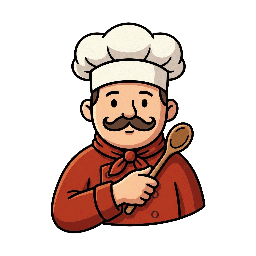
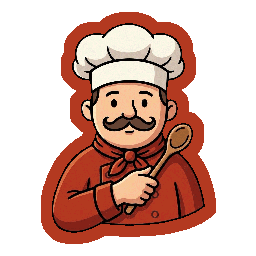
Portrait-only suspects w/ outlined art + rebuilt state cues; menu/centering/mobile-reorder/folder-slide fixes
Suspect markers now render as portrait art ONLY — Trevor re-drew each portrait
with a baked-in coloured outline, so the disc fill, per-case ring, and circular
clip are gone for a cleaner, more readable board. The interactive cues the ring
used to carry are rebuilt without a ring:

- Selection: cell amber border (kept) + the marker scales up / brightens.
- Suspect-focus lens "lit": soft amber cell halo + breathing pulse + brighter,
  larger portrait; the rest of the grid still dims (strong lit-vs-dim contrast).
- Conflict: red outline + red glow on the marker.
- Given/locked: lock badge (kept) + a faint "fixed" portrait mute.
- Tray selected / armed: lift + amber glow (name/count amber kept).
All motion-gated (Motion off -> static, in place); POI dots still track s.color
(incl. the Inspector-sepia / Actress-crimson disambiguation).

Also in this batch:
- Menu: fixed the ☰ dropdown opening off-screen on narrow/phone widths (clamped
  fully into the viewport; preserves the wide-desktop position).
- Desktop: top bar now centred over the board (aligns with the toolbar) at >=1240px.
- Mobile: moved the Objective, the "Graves' Deduction Grid" caption, and the
  Suspects label BELOW the controls toolbar (phone only; CSS order, no DOM move).
- New-case folder now visibly slides DOWN into place (introSlide fades in early
  so the downward drop is seen; can no longer fall back to the upward jModalIn pop).
[…]

Changed region(s): [[0.1562, 0.0312, 0.8438, 0.9688]]

diff --git a/index.html b/index.html
@@ -74,6 +74,14 @@
     :root{--cell:calc((100vw - 40px) / var(--ncols));}
   }
 
+  /* Desktop ≥1240: the Case File occupies a fixed 410px RIGHT grid column, so the board lives in the LEFT column.
+     Reserve that column's width (410px + 24px gap) as header right-padding so the centered top bar sits OVER THE
+     BOARD — lining up with the board and the (already board-centered) toolbar. (Trevor's "over the board" choice.)
+     padding (not transform) on purpose: a transformed ancestor would re-anchor the position:fixed menu popover. */
+  @media (min-width:1240px){
+    body:not(.appfit):not(.phone) header.app{ width:100%; box-sizing:border-box; padding-right:434px; }
+  }
+
   .board-wrap{display:flex;flex-direction:column;align-items:center;gap:14px;}
   /* the board is Inspector Graves' abstract deduction grid, not a crime-scene map */
   .board-title{font-family:Georgia,serif;font-size:13px;letter-spacing:1.5px;color:var(--ink-dim);
@@ -167,48 +175,40 @@
     box-shadow:0 1px 2px rgba(0,0,0,.5),inset 0 0 0 1px rgba(231,185,77,.4);}
   /* scene weapon: clean transparent cutout (drop-shadow only) — no dark backing box, even when covered */
   .cell-weapon.chip{background:none;}
-  /* ---- suspect token: colored disc + per-case ring + portrait/letter ---- */
-  .token{position:relative;width:82%;height:82%;border-radius:50%;z-index:2;  /* above the room object (z1), below scene weapon/victim */
+  /* ---- suspect token: PORTRAIT ART ONLY — each portrait carries its own baked-in coloured outline, so
+     there is NO disc fill, NO ring, and NO circular clip. Interactive state (selection / lens / conflict /
+     given) is conveyed by cell glow + scale/brightness, not a ring (see the state rules below). ---- */
+  .token{position:relative;width:82%;height:82%;z-index:2;  /* above the room object (z1), below scene weapon/victim */
     display:flex;align-items:center;justify-content:center;
-    background:var(--disc, #888);                 /* fallback: suspect-color disc (set inline) */
-    /* rings are DIM by default (muted toward the dark panel); they light up on selection (.match / .susp.sel) */
-    box-shadow:0 0 0 var(--ring-w) color-mix(in srgb, var(--ring,#888) var(--ring-rest,54%), #1b1f29), 0 2px 4px rgba(0,0,0,.55);
-    transition:box-shadow .12s;}
-  .token .tletter{font-weight:700;color:#fff;text-shadow:0 1px 2px rgba(0,0,0,.75);
-    font-size:inherit;line-height:1;}
-  .token .tportrait{position:absolute;inset:0;border-radius:50%;
-    background:var(--disc-cream);                 /* cream so transparent cutouts pop */
-    background-size:cover;background-position:center;display:none;}
-  .token.has-img{background:var(--disc-cream);}
+    transition:transform .12s ease, filter .12s ease;}
+  .token .tletter{font-weight:700;color:var(--ink);text-shadow:0 0 3px var(--panel),0 1px 2px rgba(0,0,0,.6);
+    font-size:inherit;line-height:1;}   /* lettered fallback (rare — portraits normally load): dark ink so it reads with no disc behind it */
+  .token .tportrait{position:absolute;inset:0;
+    background-size:contain;background-repeat:no-repeat;background-position:center;display:none;}   /* contain so the baked outline is never cropped, whatever shape the art is */
   .token.has-img .tportrait{display:block;}
   .token.has-img .tletter{display:none;}
-  /* given/locked suspects: darker disc behind the portrait + subtle lock badge */
-  .cell.given .token{background:var(--disc-given);}
-  .cell.given .token.has-img{background:var(--disc-given);}
-  .cell.given .tportrait{background-color:var(--disc-given);box-shadow:inset 0 0 0 1.5px rgba(0,0,0,.5);}   /* P6: engraved rim so "given/locked" still reads when the portrait covers the dark disc */
+  /* given/locked suspects: portrait stays; a lock badge + a faint "fixed" mute mark them as pre-filled (no disc) */
+  .cell.given .tportrait{filter:saturate(.9) brightness(.95);}
   .cell.given .token::after{content:"";position:absolute;right:-1px;bottom:-1px;
     width:42%;height:42%;max-width:15px;max-height:15px;border-radius:50%;
     background:#1a1a22 center/64% no-repeat url("assets/ui/icon-lock.png");
     box-shadow:0 0 0 1px rgba(0,0,0,.55);opacity:1;pointer-events:none;}
-  .token.big{width:84px;height:84px;font-size:40px;box-shadow:0 0 0 3.5px var(--ring,#fff),0 8px 20px rgba(0,0,0,.6);}
+  .token.big{width:84px;height:84px;font-size:40px;}
   .token.tray{width:100%;height:100%;font-size:22px;}
-  /* selected cell's token: thicker glowing ring */
-  .cell.sel .token{box-shadow:0 0 0 calc(var(--ring-w) + 1px) var(--ring,#fff),
-    0 0 0 calc(var(--ring-w) + 4px) rgba(231,185,77,.6), 0 2px 6px rgba(0,0,0,.6);}
-  /* selected suspect lights up: every matching token gets a bright full-colour ring + glow,
-     a strong jump from the dim default so it's obvious even at mobile token size */
-  .cell.match{z-index:3;}
-  /* matching placed suspects: a GENTLE breathing pulse of the lit ring/glow while selected.
-     The declared box-shadow below is the resting/static lit ring — shown as-is when Motion is off
-     (body.no-motion / reduced-motion disable the animation), so it degrades to a solid lit ring. */
-  .cell.match .token{box-shadow:0 0 0 calc(var(--ring-w) + 2px) var(--ring,#fff),
-    0 0 18px 5px var(--ring,#fff), 0 0 0 6px color-mix(in srgb, var(--ring,#fff) 48%, transparent), 0 2px 4px rgba(0,0,0,.55);
-    filter:brightness(1.06);animation:matchPulse 1.8s ease-in-out infinite;}
+  /* selected cell's occupant: the CELL already carries the amber border+glow (.cell.sel, above); the token
+     just lifts + brightens so the picked suspect pops (no ring). */
+  .cell.sel .token{transform:scale(1.06);filter:brightness(1.08) drop-shadow(0 1px 3px rgba(0,0,0,.5));}
+  /* suspect-focus lens "lit": every instance of the focused suspect gets a soft AMBER cell halo + a brighter,
+     slightly larger portrait — a strong jump above the dimmed rest (body.suspect-focus). The declared cell
+     box-shadow is the resting/static halo (shown when Motion is off); matchPulse breathes it. */
+  .cell.match{z-index:3;box-shadow:inset 0 0 0 2px rgba(231,185,77,.55), 0 0 14px 2px rgba(231,185,77,.4);
+    animation:matchPulse 1.8s ease-in-out infinite;}
+  .cell.match .token{transform:scale(1.06);filter:brightness(1.14) saturate(1.12) drop-shadow(0 0 6px rgba(231,185,77,.55));}
   @keyframes matchPulse{
-    0%,100%{box-shadow:0 0 0 calc(var(--ring-w) + 2px) var(--ring,#fff), 0 0 12px 3px var(--ring,#fff), 0 0 0 5px color-mix(in srgb, var(--ring,#fff) 40%, transparent), 0 2px 4px rgba(0,0,0,.55);}
-    50%{box-shadow:0 0 0 calc(var(--ring-w) + 2px) var(--ring,#fff), 0 0 24px 7px var(--ring,#fff), 0 0 0 7px color-mix(in srgb, var(--ring,#fff) 58%, transparent), 0 2px 4px rgba(0,0,0,.55);}}
-  /* conflict: red ring layered OUTSIDE the colour ring so it never clashes with it */
-  .token.bad{outline:2.5px solid var(--bad);outline-offset:2px;}
+    0%,100%{box-shadow:inset 0 0 0 2px rgba(231,185,77,.5), 0 0 10px 1px rgba(231,185,77,.3);}
+    50%{box-shadow:inset 0 0 0 2px rgba(231,185,77,.72), 0 0 20px 5px rgba(231,185,77,.5);}}
+  /* conflict: a red outline + glow on the marker (no disc to layer onto) */
+  .token.bad{outline:2.5px solid var(--bad);outline-offset:2px;filter:drop-shadow(0 0 5px rgba(193,39,45,.8));}
   /* ---- suspect-focus lens (P5): spotlight one suspect's markers, calm the rest of the grid ----
      The lit markers reuse .cell.match (its breathing pulse is already motion-gated). The dimming is
      opacity/filter TRANSITIONS (not animations), so the board still calms down with Motion off — it
@@ -216,7 +216,7 @@
   body.suspect-focus .cell:not(.match):not(.sel):not(.peer-row):not(.peer-col){
     opacity:.34;filter:grayscale(.4) brightness(.82);transition:opacity .22s ease,filter .22s ease;}
 
-  /* tray uses the SAME token disc+ring so the picker matches the board; name above */
+  /* tray uses the SAME portrait-only marker so the picker matches the board; name above */
   .tray{display:flex;gap:10px;flex-wrap:wrap;justify-content:center;max-width:100%;padding-top:4px;}
   .susp{display:flex;flex-direction:column;align-items:center;gap:4px;width:62px;cursor:pointer;
     transition:transform .16s ease,filter .3s ease;
@@ -226,8 +226,7 @@
     max-width:62px;white-space:nowrap;overflow:hidden;text-overflow:ellipsis;}
   .susp.sel .susp-name{color:var(--amber-soft);}
   .susp .disc{position:relative;width:52px;height:52px;}
-  .susp.sel .token{box-shadow:0 0 0 calc(var(--ring-w) + 1.5px) var(--ring,#fff),
-    0 0 16px 4px var(--ring,#fff), 0 0 0 calc(var(--ring-w) + 5px) rgba(231,185,77,.7), 0 4px 10px rgba(0,0,0,.6);}
+  .susp.sel .token{transform:scale(1.08);filter:brightness(1.1) drop-shadow(0 2px 7px rgba(231,185,77,.6));}
   .susp.done{filter:grayscale(.75) brightness(.6);}
   /* count badge sits ABOVE the token (token is z-index:2, so the badge needs a higher z or the
      portrait/ring paints over the number); bottom-right corner, chip backing for legibility */
@@ -511,9 +510,7 @@
      ring, and a prominent "N left" badge. focPulse is killed by body.no-motion -> static lit ring. */
   .susp.foc{transform:translateY(-8px) scale(1.06);}
   .susp.foc .susp-name{color:var(--amber);font-weight:800;}
-  .susp.foc .token{box-shadow:0 0 0 calc(var(--ring-w) + 1.5px) var(--ring,#fff),
-    0 0 18px 5px var(--ring,#fff), 0 0 0 calc(var(--ring-w) + 6px) rgba(231,185,77,.85), 0 4px 12px rgba(0,0,0,.6);
-    animation:focPulse 1.6s ease-in-out infinite;}
+  .susp.foc .token{filter:brightness(1.12) drop-shadow(0 0 9px rgba(231,185,77,.8));}
   .susp.foc .count{background:var(--amber);color:#1a1a22;border-color:var(--amber);
     transform:scale(1.24);box-shadow:0 0 0 2px rgba(231,185,77,.5),0 1px 4px rgba(0,0,0,.75);}
   @keyframes focPulse{
@@ -881,6 +878,20 @@
 
   /* tray + toolbar + near-board evidence */
   body.phone .board-wrap{gap:calc(9px * var(--ps,1));}   /* tighter vertical rhythm so the board starts higher */
+  /* PHONE-ONLY reorder (desktop + appfit untouched): move the Objective, the deduction-grid caption, and the
+     Suspects label BELOW the controls. .board-wrap is a flex column, so this is pure CSS `order` — no DOM move,
+     fully reversible. Order: board → tray → toolbar → Settings → Objective → grid caption → Suspects label → (Case File · status · Wembly). */
+  body.phone .board-wrap > #firstTip{order:0;}
+  body.phone .board-wrap > #board{order:1;}
+  body.phone .board-wrap > .tray{order:2;}
+  body.phone .board-wrap > .toolbar{order:3;}
+  body.phone .board-wrap > .control-row-solo{order:4;}
+  body.phone .board-wrap > #evMount{order:5;}        /* Current Objective (relocated into #evMount on phone) */
+  body.phone .board-wrap > .board-title{order:6;}     /* "🔍 Inspector Graves' Deduction Grid" caption */
+  body.phone .board-wrap > .tray-label{order:7;}      /* "Suspects — tap to select…" label */
+  body.phone .board-wrap > #caseFileBtn{order:8;}
+  body.phone .board-wrap > #statusMount{order:9;}
+  body.phone .board-wrap > #assistant{order:10;}
   body.phone .tray-label{font-size:calc(16px * var(--ps,1));}
   body.phone .tray-hint{font-size:calc(14px * var(--ps,1));}
   /* tray sized so all 9 suspects fall into exactly 2 rows (5 + 4): 5 must fit one row at ~360px */
@@ -1085,15 +1096,19 @@
     text-transform:uppercase;color:#5b4a22;}
   .iflap-stamp{transform:rotate(-8deg);border:2px solid rgba(150,32,32,.55);color:rgba(150,32,32,.62);
     font-family:"Courier New",monospace;font-weight:700;font-size:16px;letter-spacing:3px;padding:5px 14px;border-radius:4px;text-transform:uppercase;}
-  /* the case folder slides DOWN into place — starts well above its resting spot and drops in with a
-     soft settle, like a file dropped into a tray. Higher specificity than `.modal-bg.show .modal`'s
-     jModalIn so this downward slide wins over the generic upward pop. */
-  .modal-bg.show .intro-card.seq{animation:introSlide .6s cubic-bezier(.22,.78,.31,1) both;}
+  /* the case folder slides DOWN into place — starts above its resting spot and drops in with a soft settle,
+     like a file dropped into a tray. The intro card must NEVER use the generic .modal jModalIn (an upward pop),
+     so (1) we null jModalIn out for the card, and (2) the .seq variant gets introSlide. CRUCIAL: the fade-in
+     finishes EARLY (20%) while the card is still high up, so the DOWNWARD travel is what the player actually
+     sees. (Before, opacity hit 1 only at 55% and the ease-out front-loaded the whole drop into the invisible
+     fade — leaving just the tail overshoot settling UPWARD visible, which read as "slides up".) */
+  .modal-bg.show .intro-card{animation:none;}   /* kill the generic upward jModalIn pop on the case folder (introSlide below wins when .seq is present) */
+  .modal-bg.show .intro-card.seq{animation:introSlide .55s cubic-bezier(.33,0,.25,1) both;}
   @keyframes introSlide{
-    0%{transform:translateY(-96px);opacity:0;}
-    55%{opacity:1;}
-    82%{transform:translateY(6px);opacity:1;}   /* gentle overshoot past rest... */
-    100%{transform:translateY(0);opacity:1;}     /* ...then settles in */
+    0%{transform:translateY(-90px);opacity:0;}    /* above the resting spot, hidden */
+    20%{transform:translateY(-72px);opacity:1;}   /* fade in fast WHILE still high up, so the drop is visible */
+    78%{transform:translateY(6px);opacity:1;}     /* drop down PAST rest — visible downward travel */
+    100%{transform:translateY(0);opacity:1;}      /* gentle settle into place */
   }
   /* flap shown closed during the sequence, then swings open */
   .intro-card.seq .intro-flap{display:flex;transform:rotateX(0deg);transition:transform .55s ease,opacity .35s ease .2s;}
@@ -4022,8 +4037,8 @@ function _shoeURI(orient, hw, op){
       "%3Crect x='22' y='"+(15-hw)+"' width='15' height='"+(2*hw)+"' rx='"+hw+"'/%3E%3C/svg%3E";
 }
 function _mkShoe(hwmap, op){ const o={}; for(const g in hwmap) o[g]={ h:'url("'+_shoeURI('h',hwmap[g],op)+'")', v:'url("'+_shoeURI('v',hwmap[g],op)+'")' }; return o; }
-const SHOE     =_mkShoe({male:5, female:3, neutral:4}, ".74");   // desktop: a little more visible than before (.6 -> .74)
-const SHOE_BOLD=_mkShoe({male:5, female:3, neutral:4}, ".85");   // mobile: ORIGINAL size (reverted from the too-big bump); just a modest opacity boost
+const SHOE     =_mkShoe({male:4, female:4, neutral:4}, ".74");   // uniform sole width for ALL suspects + open space (Trevor: men / woman / empty all the same size)
+const SHOE_BOLD=_mkShoe({male:4, female:4, neutral:4}, ".85");   // mobile: same uniform width; modest opacity boost
 function setShoeTrail(){ let g="neutral";
   if(sel>=0 && board[sel]>0){ const su=Skin.sName(THEME,board[sel]); if(su&&su.gender) g=(su.gender==="female"?"female":"male"); }
   const set = document.body.classList.contains("phone") ? SHOE_BOLD : SHOE;
@@ -5685,7 +5700,7 @@ function _step(delay){ const a=audioCtx(); if(!a) return; const t0=a.currentTime
   const s=a.createBufferSource(); s.buffer=buf;
   const lp=a.createBiquadFilter(); lp.type="lowpass"; lp.frequency.value=380+Math.random()*300;   // muffled, varied
   const g=a.createGain(); g.gain.setValueAtTime(0.0001,t0);
-  g.gain.exponentialRampToValueAtTime(0.045+Math.random()*0.03,t0+0.005);    // VERY quiet
+  g.gain.exponentialRampToValueAtTime(0.08+Math.random()*0.045,t0+0.005);    // a touch louder than before (was 0.045) — still soft
   g.gain.exponentialRampToValueAtTime(0.0001,t0+0.06);
   s.connect(lp).connect(g).connect(a.destination); s.start(t0); s.stop(t0+0.09); }
 function playFootsteps(){
@@ -5818,9 +5833,16 @@ if($("escapeManor")) $("escapeManor").onclick=()=>{ $("escapeModal").classList.r
 /* ---- top-bar / toolbar popovers (☰ Menu, ⚙ Settings): toggle + outside-click + Esc to close ---- */
 function wirePopover(btnId, popId){
   const btn=$(btnId), pop=$(popId); if(!btn||!pop) return;
-  const close=()=>{ pop.hidden=true; btn.setAttribute("aria-expanded","false"); };
+  const close=()=>{ pop.hidden=true; btn.setAttribute("aria-expanded","false");
+    pop.style.position=pop.style.top=pop.style.left=pop.style.right=""; };   // drop the inline clamp so the CSS position resumes
+  const place=()=>{   // BUGFIX: keep the dropdown on-screen at ANY width. It was anchored right:0 to the trigger, so on
+    const b=btn.getBoundingClientRect();   // narrow/wrapped headers (and phones) the 188px panel overflowed off the LEFT edge -> "menu does nothing".
+    pop.style.position="fixed"; pop.style.top=Math.round(b.bottom+7)+"px"; pop.style.right="auto";
+    let left=Math.round(b.right-pop.offsetWidth);                                   // prefer aligning the panel's right edge with the trigger (matches the old look on wide desktop)
+    left=Math.max(8, Math.min(left, window.innerWidth-pop.offsetWidth-8));          // …but clamp fully into the viewport
+    pop.style.left=left+"px"; };
   const open =()=>{ document.querySelectorAll(".popover").forEach(p=>{ if(p!==pop){ if(p._closePopover) p._closePopover(); else p.hidden=true; } });   // only one open at a time (close via the sibling's own routine so its trigger's aria-expanded resets)
-                    pop.hidden=false; btn.setAttribute("aria-expanded","true"); };
+                    pop.hidden=false; btn.setAttribute("aria-expanded","true"); place(); };
   btn.addEventListener("click",e=>{ e.stopPropagation(); pop.hidden?open():close(); });
   pop.addEventListener("click",e=>{ if(e.target.closest(".pop-nav")) close(); else e.stopPropagation(); });   // navigation item -> close; settings toggles stay open so you can flip several
   pop._closePopover=close;
@@ -5860,9 +5882,10 @@ if($("evidenceBtn")) $("evidenceBtn").onclick=()=>{ settings.evidence=settings.e
   if(story){ if(settings.evidence==="discover") syncUnitsSilently(); renderEvidenceUI(); } };   // back to Discover shows SAVED progress (no re-credit); All shows every clue
 // tap anywhere / X / Begin during the sequence -> jump to the fully-revealed card; once revealed -> close & play
 function introSkipOrClose(e){ if(e) e.stopPropagation(); if(introAnimating) introRevealAll(); else hideIntro(); }
-if($("introModal")) $("introModal").onclick=introSkipOrClose;
-if($("introClose")) $("introClose").onclick=introSkipOrClose;
-if($("introBegin")) $("introBegin").onclick=introSkipOrClose;
+function introDismiss(e){ if(e) e.stopPropagation(); hideIntro(); }   // explicit controls (Begin / ✕) ALWAYS close — even mid-animation — so there's no skip-then-second-click
+if($("introModal")) $("introModal").onclick=introSkipOrClose;          // tapping the backdrop still skips the animation (or closes once it's finished)
+if($("introClose")) $("introClose").onclick=introDismiss;
+if($("introBegin")) $("introBegin").onclick=introDismiss;
 applyCaseButtons();
 
 setupBrand();
